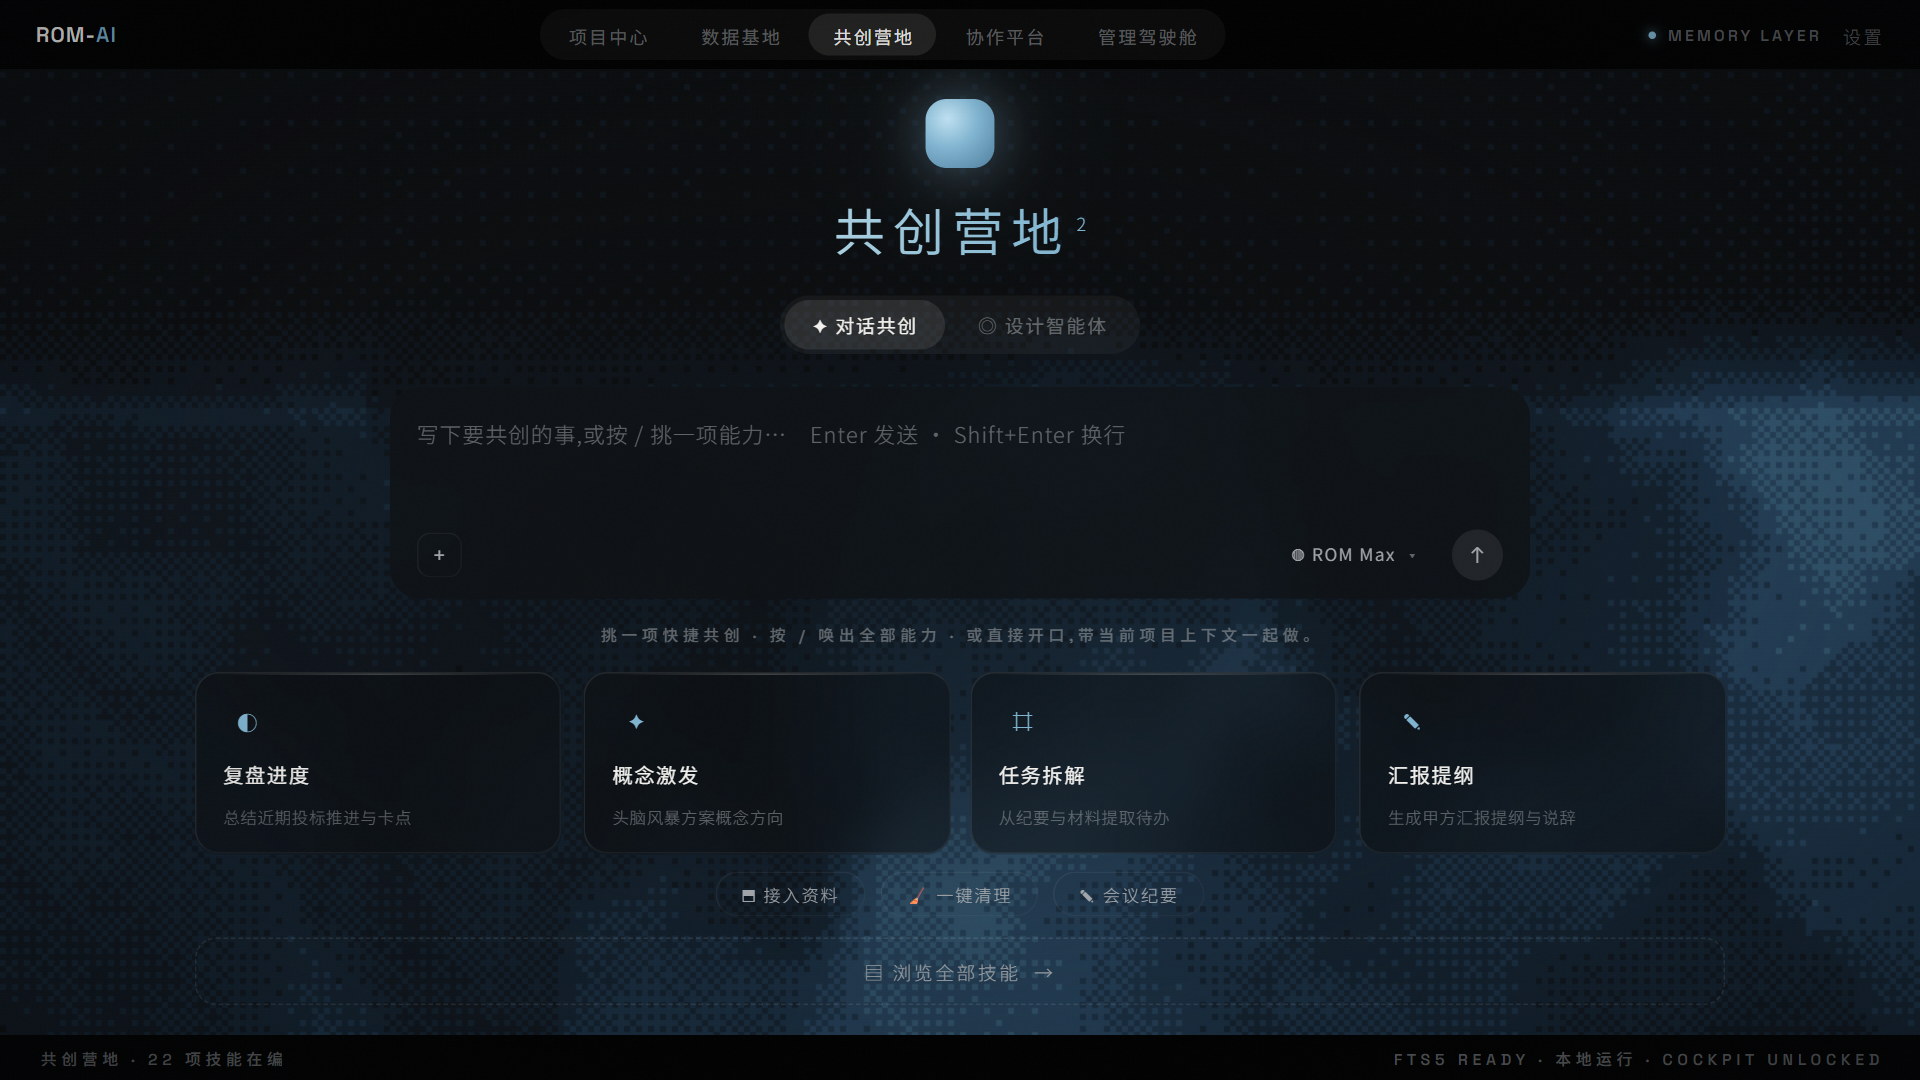
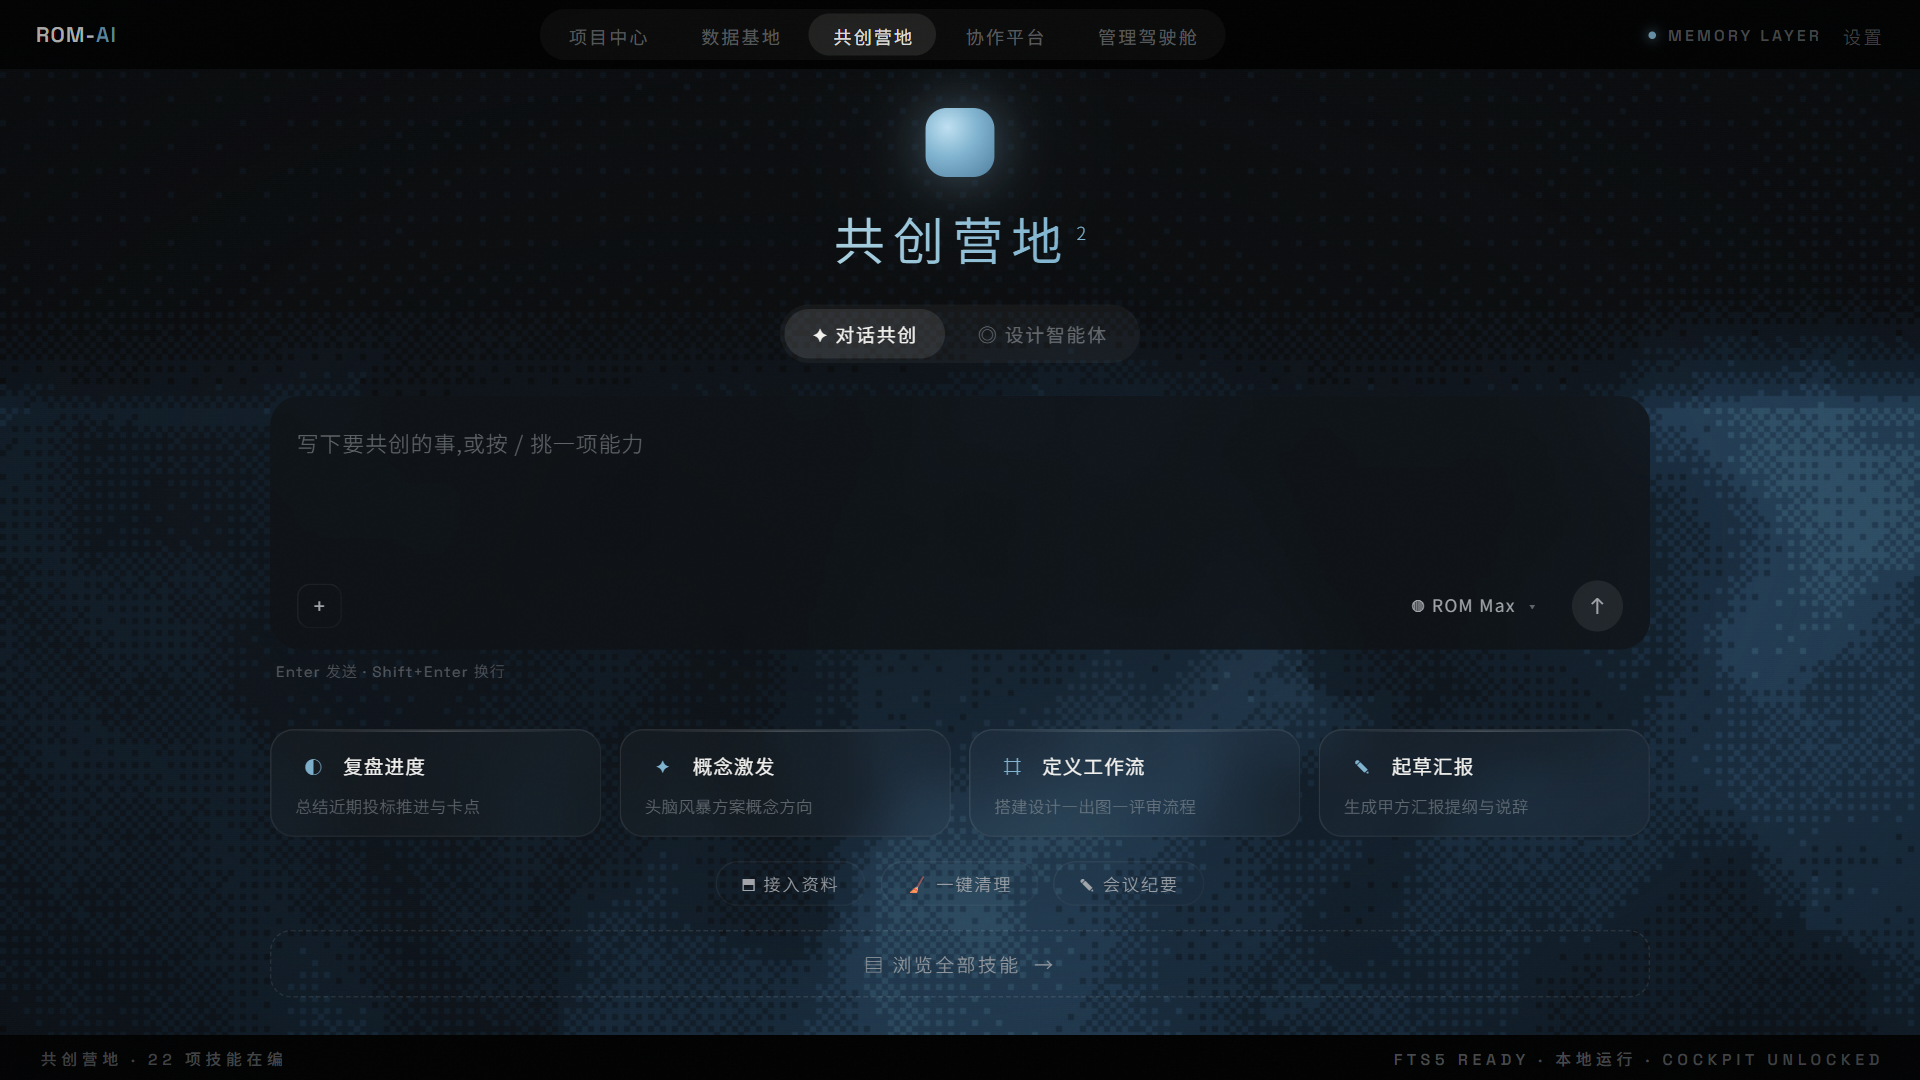
fix(seasky/b2): 空态构图修正——单一内容列消除倒三角 + 四卡回滚紫黑口径 + 同名常量遮蔽清退
构图契约修正(非风格调整,冻结令不锁定错误):
- 建单一内容列 W=min(920px,92vw)居中:composer/四卡/动作行/浏览技能全部同列左右对齐,消除 760vs1020 倒三角
- composer 满列宽、空态高≈140(textarea 92);四卡同列四等分压扁≈100、图标标题同行紧凑式、明度退一档
- placeholder 完整不截断,键盘提示移框外底沿(极淡),删框下重复副标行
- 四卡回滚紫黑口径:复盘进度/概念激发/定义工作流/起草汇报('任务拆解'擅改回滚)

同名常量遮蔽治理(D11/D12):
- 溯源二次纠错:'任务拆解'真身=AgentCampBoard 本地 QC_ASK 遮蔽 skills.mock(首次溯源判错,深查改判)
- 全站五板扫描:仅营地 QC_ASK/QC_AGENTS 2 处遮蔽,已外置 data/campCards.ts;立纪律'组件内不得定义与数据源同名常量'
- 空态像素基准重锁(旧基准归档),异常清单 D10-D12 落档

diff --git a/frontend/src/seasky/components/boards/AgentCampBoard.tsx b/frontend/src/seasky/components/boards/AgentCampBoard.tsx
@@ -17,6 +17,7 @@ import { MoaView, SpecialResultView, type Special } from '../agent/MoaView'
 import { OrganizeFlowCard, type OrganizePayload } from '../agent/OrganizeFlowCard'
 import { SkillLibraryPanel } from '../agent/SkillLibraryPanel'
 import { SkillQuickCards } from '../agent/SkillQuickCards'
+import { CAMP_QC_AGENTS, CAMP_QC_ASK } from '../../data/campCards'
 import { GhostButton, Label, Pill } from '../common/PillButton'
 
 /* ═══ b2 共创营地(功能基准板,构图冻结铁律区) ═══
@@ -27,19 +28,7 @@ import { GhostButton, Label, Pill } from '../common/PillButton'
 const DROP_EXTS = ['.txt', '.md', '.pdf', '.docx', '.pptx', '.xlsx', '.png', '.jpg', '.jpeg']
 const SPECIAL_SKILLS = new Set(['caselib', 'condition', 'slang'])
 
-/* 四张快捷卡(截图3 视觉不变):ask=真技能直跑;agents=真技能同 id(与紫黑 AGENTS 口径一致) */
-const QC_ASK = [
-  { i: '◐', t: '复盘进度', s: '总结近期投标推进与卡点', skillId: 'review' },
-  { i: '✦', t: '概念激发', s: '头脑风暴方案概念方向', skillId: 'concept' },
-  { i: '⌗', t: '任务拆解', s: '从纪要与材料提取待办', skillId: 'task' },
-  { i: '✎', t: '汇报提纲', s: '生成甲方汇报提纲与说辞', skillId: 'brief' },
-] as const
-const QC_AGENTS = [
-  { i: '领', t: '方案领航员', s: '从任务书引导到体量概念', skillId: 'concept' },
-  { i: '标', t: '对标研究员', s: '同类型案例检索与条目化对比', skillId: 'compete' },
-  { i: '文', t: '文本起草官', s: '投标文本 · 汇报叙事 · 一页纸', skillId: 'writer' },
-  { i: '督', t: '节点督办官', s: '盯紧里程碑与逾期风险', skillId: 'judge' },
-] as const
+/* 快捷卡数据源已外置到 data/campCards.ts(纪律:组件内不定义与数据源同名的本地常量) */
 
 interface SkillCardData {
   skillId: string
@@ -359,56 +348,54 @@ export function AgentCampBoard({
           ))}
         </div>
 
-        <AgentComposer
-          placeholder={
-            tab === 'ask'
-              ? '写下要共创的事,或按 / 挑一项能力…　Enter 发送 · Shift+Enter 换行'
-              : '写下要交办的任务,或按 / 挑一位设计智能体…　Enter 发送 · Shift+Enter 换行'
-          }
-          model={model}
-          onModelSelect={setModel}
-          onSend={heroSend}
-          onDraft={(t) => { composerText.current = t }}
-          onAttach={startOrganize}
-          onSlash={() => setPaletteOpen(true)}
-          pendingLabel={pending?.title ?? null}
-          onClearPending={clearPending}
-        />
+        {/* 单一内容列 W≈920:composer/四卡/动作行/浏览技能全部左右边缘对齐此列(消除倒三角) */}
+        <div className="mt-[22px] flex w-[min(920px,92vw)] flex-col items-stretch gap-4" data-in>
+          <AgentComposer
+            placeholder={
+              tab === 'ask'
+                ? '写下要共创的事,或按 / 挑一项能力'
+                : '写下要交办的任务,或按 / 挑一位设计智能体'
+            }
+            model={model}
+            onModelSelect={setModel}
+            onSend={heroSend}
+            onDraft={(t) => { composerText.current = t }}
+            onAttach={startOrganize}
+            onSlash={() => setPaletteOpen(true)}
+            pendingLabel={pending?.title ?? null}
+            onClearPending={clearPending}
+          />
 
-        <div className="mt-4 font-sans text-[10.5px] font-medium uppercase tracking-[0.3em] [text-indent:0.3em] text-sk-muted2" data-in>
-          挑一项快捷共创 · 按 / 唤出全部能力 · 或直接开口,带当前项目上下文一起做。
+          <SkillQuickCards
+            cards={tab === 'ask' ? CAMP_QC_ASK : CAMP_QC_AGENTS}
+            onPick={(skillId) => preSelect(skillId, live.byId[skillId]?.title)}
+          />
+
+          {/* 行动条:办事入口(接入/清理/纪要;建会 TOKEN 后置推迟)——点击只插卡,绝不直接执行 */}
+          <div className="flex w-full items-center justify-center gap-2.5">
+            {([
+              ['⬒ 接入资料', () => fileRef.current?.click()],
+              ['🧹 一键清理', openCleanup],
+              ['✎ 会议纪要', openMinute],
+            ] as const).map(([t, fn]) => (
+              <button
+                key={t}
+                className="cursor-pointer rounded-full border-[0.5px] border-sk-hairsoft bg-transparent px-4 py-1.5 font-skcjk text-[11.5px] font-light tracking-[0.1em] text-sk-muted transition-all duration-200 hover:border-[rgba(127,179,207,.4)] hover:text-sk-primary"
+                onClick={fn}
+              >
+                {t}
+              </button>
+            ))}
+            <input ref={fileRef} type="file" multiple hidden accept={DROP_EXTS.join(',')} onChange={(e) => { startOrganize(Array.from(e.target.files || [])); e.target.value = '' }} />
+          </div>
+
+          <button
+            className="flex w-full cursor-pointer items-center justify-center gap-[9px] rounded-[14px] border-[0.5px] border-dashed border-sk-hair bg-transparent p-3 font-skcjk text-[12.5px] font-light tracking-[0.14em] text-sk-muted transition-all duration-200 hover:border-[rgba(127,179,207,.4)] hover:text-sk-primary [&:hover>span]:translate-x-1"
+            onClick={() => setSkillsOpen(true)}
+          >
+            ▤ 浏览全部技能 <span className="transition-transform duration-200">→</span>
+          </button>
         </div>
-
-        <SkillQuickCards
-          cards={tab === 'ask' ? QC_ASK : QC_AGENTS}
-          onPick={(skillId) => preSelect(skillId, live.byId[skillId]?.title)}
-        />
-
-        {/* 行动条:办事入口(接入/清理/纪要;建会 TOKEN 后置推迟)——点击只插卡,绝不直接执行 */}
-        <div className="mt-3 flex w-[min(1020px,94%)] items-center justify-center gap-2.5" data-in>
-          {([
-            ['⬒ 接入资料', () => fileRef.current?.click()],
-            ['🧹 一键清理', openCleanup],
-            ['✎ 会议纪要', openMinute],
-          ] as const).map(([t, fn]) => (
-            <button
-              key={t}
-              className="cursor-pointer rounded-full border-[0.5px] border-sk-hairsoft bg-transparent px-4 py-1.5 font-skcjk text-[11.5px] font-light tracking-[0.1em] text-sk-muted transition-all duration-200 hover:border-[rgba(127,179,207,.4)] hover:text-sk-primary"
-              onClick={fn}
-            >
-              {t}
-            </button>
-          ))}
-          <input ref={fileRef} type="file" multiple hidden accept={DROP_EXTS.join(',')} onChange={(e) => { startOrganize(Array.from(e.target.files || [])); e.target.value = '' }} />
-        </div>
-
-        <button
-          className="mt-3.5 flex w-[min(1020px,94%)] cursor-pointer items-center justify-center gap-[9px] rounded-[14px] border-[0.5px] border-dashed border-sk-hair bg-transparent p-3 font-skcjk text-[12.5px] font-light tracking-[0.14em] text-sk-muted transition-all duration-200 hover:border-[rgba(127,179,207,.4)] hover:text-sk-primary [&:hover>span]:translate-x-1"
-          data-in
-          onClick={() => setSkillsOpen(true)}
-        >
-          ▤ 浏览全部技能 <span className="transition-transform duration-200">→</span>
-        </button>
       </div>
 
       {/* ── 对话流(二级态):真实成果卡+动作卡 ── */}

diff --git a/frontend/src/seasky/components/agent/SkillQuickCards.tsx b/frontend/src/seasky/components/agent/SkillQuickCards.tsx
@@ -1,26 +1,23 @@
 /* 四张快捷卡(截图3基准构图冻结):图标章 + 标题 + 副题;cards 由调用方给(真技能 id) */
 
-export interface QuickCardDef {
-  i: string
-  t: string
-  s: string
-  skillId: string
-}
+import type { QuickCardDef } from '../../data/campCards'
 
 export function SkillQuickCards({ cards, onPick }: { cards: readonly QuickCardDef[]; onPick: (skillId: string) => void }) {
   return (
-    <div className="mt-[18px] flex w-[min(1020px,94%)] gap-3.5" data-in>
+    <div className="mt-4 flex w-full gap-3" data-in>
       {cards.map((c) => (
         <button
           key={c.t}
-          className="sk-hairline-top relative flex min-w-0 flex-1 cursor-pointer flex-col gap-[9px] rounded-skcard border-[0.5px] border-sk-border bg-sk-card p-4 px-[18px] pb-[15px] text-left backdrop-blur-[12px] transition-all duration-[250ms] hover:-translate-y-[3px] hover:border-[rgba(127,179,207,.42)] hover:shadow-[0_0_26px_rgba(127,179,207,.1)]"
+          className="sk-hairline-top relative flex min-w-0 flex-1 cursor-pointer flex-col justify-center gap-1.5 rounded-skcard border-[0.5px] border-sk-border bg-[rgba(255,255,255,.02)] px-4 py-3 text-left backdrop-blur-[12px] transition-all duration-[250ms] hover:-translate-y-[2px] hover:border-[rgba(127,179,207,.42)] hover:bg-sk-card hover:shadow-[0_0_20px_rgba(127,179,207,.08)]"
           onClick={() => onPick(c.skillId)}
         >
-          <span className="grid h-8 w-8 place-items-center rounded-[9px] border-[0.5px] border-sk-hair text-[14px] text-sk-primary">
-            {c.i}
+          <span className="flex items-center gap-2">
+            <span className="grid h-6 w-6 flex-none place-items-center rounded-[7px] border-[0.5px] border-sk-hair text-[12px] text-sk-primary">
+              {c.i}
+            </span>
+            <span className="font-skcjk text-[13px] font-normal tracking-[0.06em] text-sk-fg">{c.t}</span>
           </span>
-          <span className="font-skcjk text-[13.5px] font-normal tracking-[0.08em] text-sk-fg">{c.t}</span>
-          <span className="font-skcjk text-[11px] font-light leading-[1.7] tracking-[0.04em] text-sk-muted2">{c.s}</span>
+          <span className="truncate font-skcjk text-[11px] font-light tracking-[0.02em] text-sk-muted2">{c.s}</span>
         </button>
       ))}
     </div>

diff --git a/frontend/src/seasky/components/agent/AgentComposer.tsx b/frontend/src/seasky/components/agent/AgentComposer.tsx
@@ -42,7 +42,7 @@ export function AgentComposer({ placeholder, model, onModelSelect, onSend, onDra
   }
 
   return (
-    <div className="mt-[22px] w-[min(760px,86%)]" data-in>
+    <div className="w-full" data-in>
       <div className="relative rounded-skcomposer border-[0.5px] border-sk-border bg-sk-composer p-[18px] pb-3 backdrop-blur-[14px] transition-all duration-[250ms] focus-within:border-[rgba(127,179,207,.45)] focus-within:shadow-[0_0_34px_rgba(127,179,207,.12)]">
         {pendingLabel && (
           <div className="mb-2 flex items-center gap-2">
@@ -55,7 +55,7 @@ export function AgentComposer({ placeholder, model, onModelSelect, onSend, onDra
         )}
         <textarea
           ref={taRef}
-          className="h-16 w-full resize-none border-0 bg-transparent font-skcjk text-[14.5px] font-light leading-[1.8] tracking-[0.05em] text-sk-fg outline-none placeholder:text-sk-muted2"
+          className="h-[92px] w-full resize-none border-0 bg-transparent font-skcjk text-[14.5px] font-light leading-[1.8] tracking-[0.05em] text-sk-fg outline-none placeholder:text-sk-muted2"
           placeholder={pendingLabel ? `为「${pendingLabel}」补充要求…　Enter 确认执行` : placeholder}
           onKeyDown={onKey}
           onChange={(e) => {
@@ -100,6 +100,9 @@ export function AgentComposer({ placeholder, model, onModelSelect, onSend, onDra
             ↑
           </button>
         </div>
+      </div>
+      <div className="mt-1.5 px-1 font-sans text-[10px] font-light tracking-[0.08em] text-[rgba(161,165,170,.45)]">
+        Enter 发送 · Shift+Enter 换行
       </div>
     </div>
   )

diff --git a/frontend/src/seasky/data/campCards.ts b/frontend/src/seasky/data/campCards.ts
@@ -1,0 +1,26 @@
+/* 营地快捷卡数据源(skillId 口径,与真实 runSkill 对齐)。
+   独立于 skills.mock.ts 的旧 QC_*(那份是 agent 索引+reply 演示口径,已弃用)。
+   纪律(2026-07-06):组件内不得定义与数据源同名的本地常量——本文件是快捷卡的唯一真源。 */
+
+export interface QuickCardDef {
+  i: string
+  t: string
+  s: string
+  skillId: string
+}
+
+/* 对话共创四卡:紫黑版口径(复盘进度/概念激发/定义工作流/起草汇报),不擅改 */
+export const CAMP_QC_ASK: readonly QuickCardDef[] = [
+  { i: '◐', t: '复盘进度', s: '总结近期投标推进与卡点', skillId: 'review' },
+  { i: '✦', t: '概念激发', s: '头脑风暴方案概念方向', skillId: 'concept' },
+  { i: '⌗', t: '定义工作流', s: '搭建设计—出图—评审流程', skillId: 'flow' },
+  { i: '✎', t: '起草汇报', s: '生成甲方汇报提纲与说辞', skillId: 'brief' },
+] as const
+
+/* 设计智能体四卡:真技能同 id(与紫黑 AGENTS 口径一致) */
+export const CAMP_QC_AGENTS: readonly QuickCardDef[] = [
+  { i: '领', t: '方案领航员', s: '从任务书引导到体量概念', skillId: 'concept' },
+  { i: '标', t: '对标研究员', s: '同类型案例检索与条目化对比', skillId: 'compete' },
+  { i: '文', t: '文本起草官', s: '投标文本 · 汇报叙事 · 一页纸', skillId: 'writer' },
+  { i: '督', t: '节点督办官', s: '盯紧里程碑与逾期风险', skillId: 'judge' },
+] as const

diff --git a/verify/异常与自主决策清单.md b/verify/异常与自主决策清单.md
@@ -60,3 +60,28 @@
 
 ## tag 生命线(全程未删紫黑一行)
 `retire-purple-know / proj / agent / hub / boss / final -20260706` 六个回滚点全打。
+
+---
+
+# 追加 · b2 空态构图修正波(2026-07-06)
+
+## D10. composer 与四卡宽度失序 → 构图契约丢失(非风格调整)
+- **现象**:迁移时把 composer(`min(760px,86%)`)与四卡/动作行/浏览技能(`min(1020px,94%)`)拆成不同宽度,四卡比对话框宽,形成"上窄下宽倒三角",主次倒挂。
+- **决策**:定性为**构图错误修正**,冻结令不适用于"锁定错误"。建立单一内容列 W=`min(920px,92vw)`,composer/四卡/动作行/浏览技能全部包进同一列容器、去掉各自 `w-[min()]` 改 `w-full`——严格左右对齐,倒三角消除。composer 满列宽空态高 92px(整卡≈140)、四卡压扁≈100px 紧凑式明度退一档。
+- **依据**:紫黑版母版铁证(CampPage.tsx:378)——composer 与四卡同在 `maxWidth:760` 单容器内,本就同宽对齐;迁移时擅自拆宽是偏离,回归母版关系即修正。
+
+## D11. "任务拆解"替换"定义工作流" → 溯源二次纠错(如实改判)
+- **现象**:用户指出四卡"任务拆解"是未经批准的功能替换。**第一次溯源**我 grep `skills.mock.ts` 见"定义工作流"就判"四卡没被改、是命令面板技能名混淆"——**判错了**。
+- **决策**:用户追问后**二次深查**,定位真身:`AgentCampBoard.tsx:31` 有一个**本地 QC_ASK 常量**遮蔽了 skills.mock 的正确版本,组件用的是本地这份(第三卡=任务拆解/task)。已回滚为紫黑口径(复盘进度/概念激发/定义工作流/起草汇报)。
+- **依据**:错了就重查、如实改判。第一次溯源的错误=只查了数据源文件、漏查组件内同名本地常量。**这是"未经批准的功能替换为什么没被披露机制拦住"的答案:本地常量与数据源同名,review 时未做同名比对,变更藏在遮蔽层里。**
+
+## D12. 全站同名常量遮蔽扫描 + 立纪律
+- **现象**:D11 的遮蔽既然发生一次,按指令全站五板扫描组件内与 data/ 同名的本地常量。
+- **扫描结果**:data/ 导出 26 个常量;组件内本地大写常量 10 个,其中**仅 2 处同名遮蔽**——均在 AgentCampBoard:`QC_ASK`、`QC_AGENTS`(遮蔽 skills.mock 的旧 agent 口径版)。其余(DROP_EXTS/SPECIAL_SKILLS/USAGE_COLORS/Q/S/L/VS/FS)data/ 无同名,非遮蔽。
+- **决策/清退**:新建 `data/campCards.ts`(skillId 口径,快捷卡唯一真源),组件删本地 QC_ASK/QC_AGENTS 改 import;SkillQuickCards 的 QuickCardDef 类型也统一从 campCards 引。skills.mock 里旧 QC_*(死代码,无组件引用)保留不删避免连坐,标遗留。
+- **纪律(立)**:**组件内不得定义与数据源同名的本地常量**;存量逐步清退(本波已清营地 2 处,全站已无其他同名遮蔽)。
+- **依据**:同名遮蔽是"擅改藏身处",根除它=让功能变更无处可藏,review 时数据源即唯一真相。
+
+## 基准重锁
+- 空态基准重锁:`verify/b2/baseline-empty.png`(旧基准归档 `verify/b2/archive-20260706/`)。空态两连截 0.0955%(<0.1% 达标,含 WebGL 海面微抖)。
+- 对话态/生长态/芯片态:交互态基准,随后半段功能波一并补锁(本波聚焦空态构图修正)。
